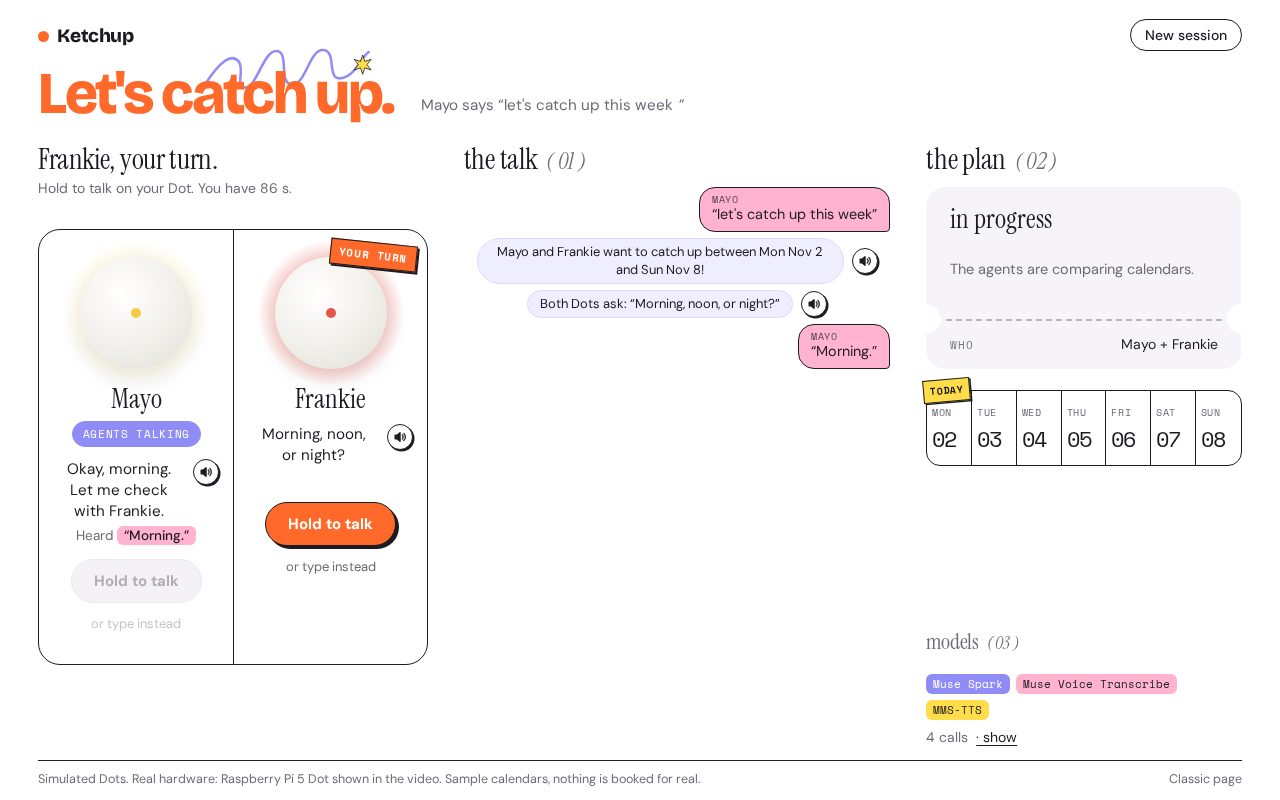
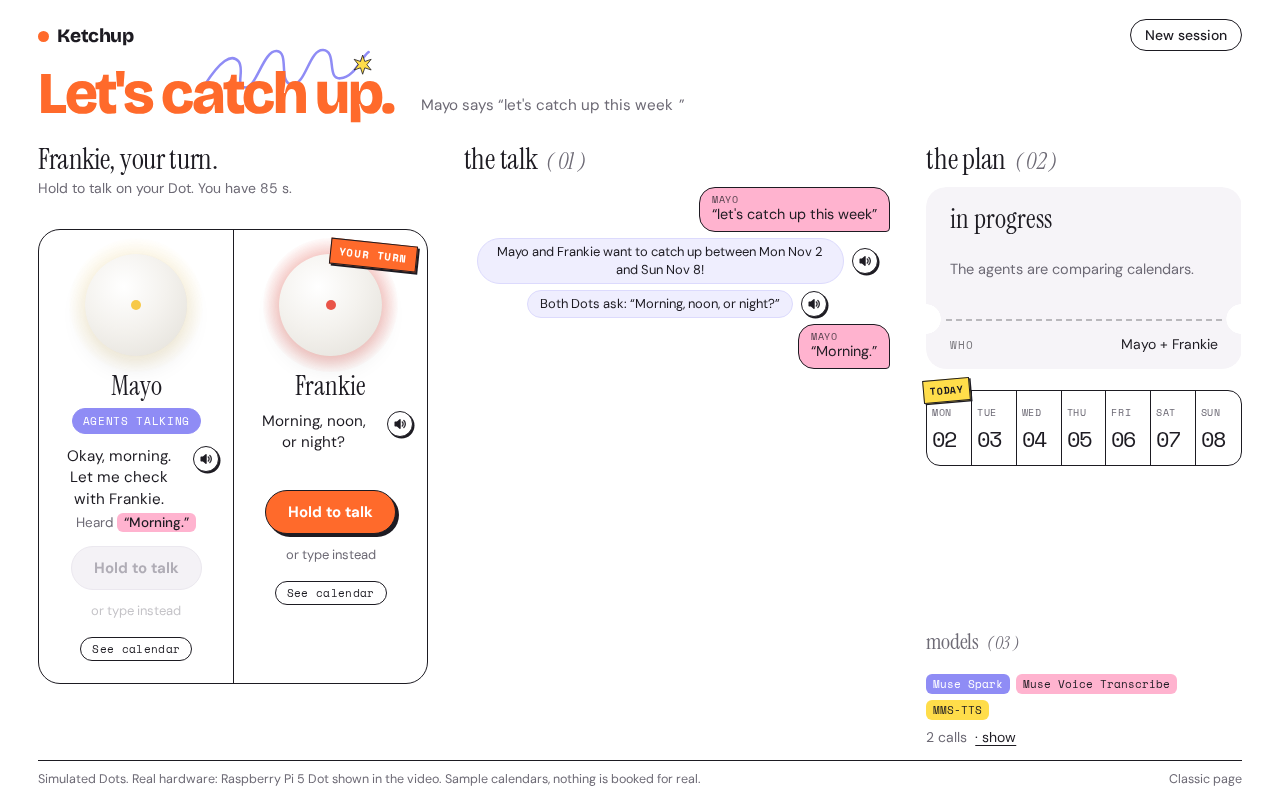
Simulator: See calendar view for each Dot

diff --git a/web/sim.html b/web/sim.html
@@ -194,9 +194,69 @@ footer .r{display:flex;gap:18px}
 footer .link{font-size:12.5px;padding:0}
 
 /* laptop and desktop: one screen, three columns, nothing scrolls */
+/* each person's mock calendar, the same data the agents read */
+.calbtn{margin-top:8px;border:1.5px solid var(--ink);background:#fff;border-radius:999px;padding:3px 11px;font-family:var(--mono);font-size:11px;letter-spacing:.03em;cursor:pointer;color:var(--ink)}
+.calbtn:hover{background:var(--hair)}
+.calov{display:none}
+.calov.open{display:block}
+.calcard{background:#fff;display:flex;flex-direction:column}
+.calhead{display:flex;align-items:center;gap:14px;flex-wrap:wrap}
+.calhead h2{margin:0}
+.caltabs{display:flex;gap:6px;margin-left:auto}
+.caltabs button{border:1.5px solid var(--ink);background:#fff;border-radius:999px;padding:4px 12px;font-size:13px;font-weight:700;cursor:pointer;color:var(--ink)}
+.caltabs button.on{background:var(--ink);color:#fff}
+.calx{border:0;background:none;font-size:26px;line-height:1;cursor:pointer;color:var(--ink);padding:0 2px}
+.calx:focus{outline:none}.calx:focus-visible{outline:2px solid var(--peri);outline-offset:2px;border-radius:6px}
+.calhint{color:var(--soft);font-size:13px;margin:6px 0 10px}
+.callegend{display:flex;gap:14px;flex-wrap:wrap;font-size:12px;color:var(--soft);margin-top:10px}
+.callegend i{display:inline-block;width:12px;height:12px;border-radius:3px;vertical-align:-2px;margin-right:5px;border:1px solid var(--line)}
+.ev{border-radius:6px;font-size:10.5px;line-height:1.2;padding:2px 5px;overflow:hidden;color:var(--ink)}
+.ev b{font-weight:700;display:block;white-space:nowrap;overflow:hidden;text-overflow:ellipsis}
+.ev span{font-family:var(--mono);font-size:9.5px;white-space:nowrap}
+.ev.mayo,.callegend .mayo{background:#e9e8fd;border:1px solid #c9c7f8}
+.ev.frankie,.callegend .frankie{background:#ffe6ef;border:1px solid #f6bfd3}
+.ev.k,.callegend .k{background:var(--yellow);border:1.5px solid var(--ink);z-index:2}
+.ev.k.ok,.callegend .ok{background:var(--green)}
+/* desktop: a week grid in a centred card, sized to the window */
+.cg{flex:1;min-height:0;display:grid;grid-template-columns:40px repeat(7,minmax(0,1fr));grid-template-rows:auto minmax(0,1fr);column-gap:4px}
+.cg .dh{text-align:center;font-size:11px;font-family:var(--mono);text-transform:uppercase;color:var(--soft);padding-bottom:4px;line-height:1.25}
+.cg .dh b{display:block;font-family:var(--display);font-size:20px;color:var(--ink);letter-spacing:-.02em}
+.cg .dh small{display:block;font-size:9px;height:11px}
+.cg .hrs{position:relative}
+.cg .hrs span{position:absolute;right:4px;transform:translateY(-50%);font-family:var(--mono);font-size:9.5px;color:var(--faint)}
+.cg .day{position:relative;border:1px solid var(--hair);border-radius:8px;background-image:linear-gradient(var(--hair) 1px,transparent 1px);background-size:100% calc(100% / var(--nh))}
+.cg .day.out{opacity:.38}
+.cg .day .past{position:absolute;left:0;right:0;top:0;background:repeating-linear-gradient(135deg,#f4f3f7 0 6px,#fff 6px 12px);border-radius:8px 8px 0 0}
+.cg .ev{position:absolute;left:3px;right:3px}
+.cg .ev.k{left:1px;right:1px;padding:1px 5px}
+.cg .ev.k b{font-size:10px;line-height:1.25}
+.cg .buf{position:absolute;left:0;right:0;border:1.5px dashed var(--faint);border-radius:6px;z-index:1}
+.cg.both .ev.mayo{right:calc(50% + 1px)}
+.cg.both .ev.frankie{left:calc(50% + 1px)}
+.cg .lanes{display:flex;font-size:8.5px;font-family:var(--mono);color:var(--faint);justify-content:space-around}
+/* phone: a day-by-day list, in the page (no inner scroll box) */
+.agenda h3{font-family:var(--serif);font-weight:400;font-size:22px;margin:16px 0 6px}
+.agenda h3 small{font-size:12px;color:var(--soft);font-family:var(--mono);margin-left:6px}
+.agenda .ev{display:flex;gap:8px;align-items:baseline;margin:4px 0;padding:6px 10px;font-size:13px}
+.agenda .ev b{display:inline;white-space:normal}
+.agenda .ev span{font-size:11px;min-width:118px}
+.agenda .none{color:var(--faint);font-size:13px}
+@media (min-width:900px){
+  .calov.open{position:fixed;inset:0;z-index:50;background:rgba(29,27,34,.32);display:grid;place-items:center}
+  .calcard{width:min(1180px,calc(100vw - 64px));height:calc(100dvh - 56px);max-height:820px;border:1.5px solid var(--ink);border-radius:22px;box-shadow:6px 6px 0 var(--ink);padding:18px 24px 16px}
+  .calhead h2{font-size:clamp(24px,3.6vh,34px)}
+}
+@media (max-width:899px){
+  body.calopen .wrap{display:none}
+  .calcard{padding:18px}
+  .calhead h2{font-size:28px}
+  .caltabs{margin-left:0;order:3;width:100%}
+  .calx{margin-left:auto}
+}
+
 @media (min-width:900px){
   html,body{height:100%}
-  :root{--peb:clamp(84px,14vh,150px);--sidepad:clamp(18px,3.4vh,40px);--tk:clamp(120px,16.5vh,220px)}
+  :root{--peb:clamp(84px,12.8vh,150px);--sidepad:clamp(16px,3vh,40px);--tk:clamp(120px,16.5vh,220px)}
   .wrap{max-width:1640px;height:100vh;height:100dvh;display:flex;flex-direction:column;padding:clamp(14px,2.4vh,28px) clamp(28px,3vw,56px) clamp(10px,1.6vh,20px)}
   .hero{font-size:clamp(40px,7.4vh,86px);margin-top:clamp(10px,2vh,26px);display:flex;align-items:flex-end;gap:28px}
   .plan{margin:0 0 .14em;font-size:clamp(14px,1.9vh,17px)}
@@ -278,10 +338,12 @@ footer .link{font-size:12.5px;padding:0}
         <div class="side" id="side-mayo">
           <div class="pebble" id="peb-mayo"><span class="dot"></span></div>
           <div id="co-mayo"></div>
+          <button class="calbtn" data-cal="mayo">See calendar</button>
         </div>
         <div class="side" id="side-frankie">
           <div class="pebble" id="peb-frankie"><span class="dot"></span></div>
           <div id="co-frankie"></div>
+          <button class="calbtn" data-cal="frankie">See calendar</button>
         </div>
       </section>
     </div>
@@ -304,6 +366,14 @@ footer .link{font-size:12.5px;padding:0}
     <span>Simulated Dots. Real hardware: Raspberry Pi 5 Dot shown in the video. Sample calendars, nothing is booked for real.</span>
     <span class="r"><button class="link" id="skip" style="display:none">Skip to 10 PM</button><a class="link" href="/classic">Classic page</a></span>
   </footer>
+</div>
+<div class="calov" id="calov" role="dialog" aria-modal="true" aria-labelledby="caltitle">
+  <div class="calcard">
+    <div class="calhead"><h2 id="caltitle">calendar</h2><div class="caltabs"><button data-show="mayo">Mayo</button><button data-show="frankie">Frankie</button><button data-show="both">Both</button></div><button class="calx" id="calx" aria-label="Close">×</button></div>
+    <div class="calhint" id="calhint"></div>
+    <div id="calbody"></div>
+    <div class="callegend"><span><i class="mayo"></i>Mayo's events</span><span><i class="frankie"></i>Frankie's events</span><span><i class="k"></i>Ketchup, pencilled in</span><span><i class="k ok"></i>Ketchup, booked</span><span><i style="border:1.5px dashed var(--faint);background:#fff"></i>30 min kept clear</span><span>Sample calendars, the same ones the agents read.</span></div>
+  </div>
 </div>
 <script>
 const $ = s => document.querySelector(s);
@@ -551,7 +621,8 @@ addEventListener("resize", () => { fitPhrase(); fitNotes(); renderCalls(); });
 async function loadWeek() {
   const r = await api("/sim/api/calendar" + (sid ? "?session=" + sid : "")).catch(() => null);
   if (!r || !r.ok) return;
-  const W = r.body, z = {timeZone: "America/New_York"};
+  const W = weekData = r.body, z = {timeZone: "America/New_York"};
+  renderCal();
   const dayOf = d => new Date(d).toLocaleDateString("en-CA", z);
   const hold = (W.people.mayo.ketchup || [])[0];
   $("#week").innerHTML = W.days.map((day, i) => {
@@ -562,6 +633,80 @@ async function loadWeek() {
     return `<div class="${hit ? "hit" + (ok ? " ok" : "") : ""}">${i === 0 ? '<i class="sticky today">Today</i>' : ""}<span>${d.toLocaleDateString("en-US", {weekday: "short"})}</span><b>${String(d.getDate()).padStart(2, "0")}</b>${hit ? `<em>${tm}</em>` : ""}${ok ? '<i class="sticky done">Booked!</i>' : ""}</div>`;
   }).join("");
 }
+
+
+// ---- each person's calendar, from the same mock data the agents read ----
+let calShow = null, calFrom = null;
+const ET = new Intl.DateTimeFormat("en-CA", {timeZone: "America/New_York", year: "numeric", month: "2-digit", day: "2-digit", hour: "2-digit", minute: "2-digit", hourCycle: "h23"});
+function etOf(iso) {
+  const p = Object.fromEntries(ET.formatToParts(new Date(iso)).map(x => [x.type, x.value]));
+  return {day: `${p.year}-${p.month}-${p.day}`, h: +p.hour + +p.minute / 60};
+}
+const hm = h => { const H = Math.floor(h), M = Math.round((h - H) * 60); return `${H % 12 || 12}${M ? ":" + String(M).padStart(2, "0") : ""}`; };
+const ampm = h => (h < 12 || h >= 24 ? "AM" : "PM");
+const span = (a, b) => `${hm(a)}${ampm(a) === ampm(b) ? "" : " " + ampm(a)}–${hm(b)} ${ampm(b)}`;
+function calEvents(W, who) {
+  const out = [];
+  for (const k of who) for (const e of W.people[k].busy) {
+    const a = etOf(e.start), b = etOf(e.end);
+    out.push({k, day: a.day, a: a.h, b: b.h, title: e.title});
+  }
+  const hold = (W.people.mayo.ketchup || [])[0];
+  if (hold) {
+    const a = etOf(hold.start), mins = hold.minutes || 30, ok = hold.status === "confirmed";
+    out.push({k: "k" + (ok ? " ok" : ""), day: a.day, a: a.h, b: a.h + mins / 60, title: (ok ? "Booked: " : "Pencilled in: ") + (hold.title || "Ketchup"), short: ok ? "Ketchup ✓" : "Ketchup?"});
+  }
+  return out.sort((x, y) => x.a - y.a);
+}
+function renderCal() {
+  if (!calShow || !weekData) return;
+  const W = weekData, who = calShow === "both" ? KEYS : [calShow];
+  $("#caltitle").innerHTML = calShow === "both" ? "both calendars" : `${esc(W.people[calShow].name)}'s calendar`;
+  document.querySelectorAll("[data-show]").forEach(b => b.classList.toggle("on", b.dataset.show === calShow));
+  $("#calhint").textContent = `Each agent reads only its own person's calendar. It shares free times with the other agent, never event names. Ketchup keeps ${W.buffer_min} min clear around every event.`;
+  const evs = calEvents(W, who), win = W.window, inWin = d => !win || (d >= win[0] && d <= win[1]);
+  const now = etOf(new Date().toISOString()), z = {timeZone: "UTC"};
+  const label = d => new Date(d + "T12:00:00Z");
+  if (!wide()) {
+    $("#calbody").innerHTML = `<div class="agenda">${W.days.map(d => {
+      const list = evs.filter(e => e.day === d), dt = label(d);
+      return `<h3>${dt.toLocaleDateString("en-US", {...z, weekday: "long"})} ${dt.getUTCDate()}${inWin(d) ? "" : "<small>outside the plan</small>"}</h3>` +
+        (list.map(e => `<div class="ev ${e.k}"><span>${span(e.a, e.b)}</span><b>${calShow === "both" && KEYS.includes(e.k) ? esc(W.people[e.k].name) + ": " : ""}${esc(e.title)}</b></div>`).join("") || '<div class="none">Nothing on.</div>');
+    }).join("")}</div>`;
+    return;
+  }
+  let H0 = Math.min(7, ...evs.map(e => Math.floor(e.a))), H1 = Math.max(22, ...evs.map(e => Math.ceil(e.b)));
+  const n = H1 - H0, pct = h => ((h - H0) / n * 100).toFixed(3) + "%";
+  const hrs = Array.from({length: n / 2 + 1}, (_, i) => H0 + i * 2).map(h => `<span style="top:${pct(h)}">${hm(h)} ${ampm(h)}</span>`).join("");
+  $("#calbody").style.cssText = "flex:1;min-height:0;display:flex;flex-direction:column";
+  $("#calbody").innerHTML = `<div class="cg ${calShow === "both" ? "both" : ""}" style="--nh:${n}"><div></div>${W.days.map(d => {
+    const dt = label(d);
+    return `<div class="dh">${dt.toLocaleDateString("en-US", {...z, weekday: "short"})}<b>${String(dt.getUTCDate()).padStart(2, "0")}</b><small>${inWin(d) ? (calShow === "both" ? "mayo · frankie" : "") : "outside plan"}</small></div>`;
+  }).join("")}<div class="hrs">${hrs}</div>${W.days.map(d => {
+    const past = d === now.day && now.h > H0 ? `<div class="past" style="height:${pct(Math.min(now.h, H1))}"></div>` : "";
+    const g = W.buffer_min / 60;
+    return `<div class="day${inWin(d) ? "" : " out"}">${past}${evs.filter(e => e.day === d).map(e => e.short
+      ? `<div class="buf" style="top:${pct(e.a - g)};height:calc(${pct(e.b + g)} - ${pct(e.a - g)})" title="${W.buffer_min} min kept clear"></div><div class="ev ${e.k}" style="top:${pct(e.a)};height:calc(${pct(e.b)} - ${pct(e.a)})" title="${esc(e.title)} ${span(e.a, e.b)}"><b>${e.short} ${span(e.a, e.b)}</b></div>`
+      : `<div class="ev ${e.k}" style="top:${pct(e.a)};height:calc(${pct(e.b)} - ${pct(e.a)})" title="${esc(e.title)} ${span(e.a, e.b)}"><b>${esc(e.title)}</b><span>${span(e.a, e.b)}</span></div>`).join("")}</div>`;
+  }).join("")}</div>`;
+}
+function openCal(k, from) {
+  calShow = k; calFrom = from || calFrom; $("#calov").classList.add("open"); document.body.classList.add("calopen");
+  if (!wide()) scrollTo(0, 0);
+  renderCal(); loadWeek();
+  $("#calx").focus({preventScroll: true});
+}
+function closeCal() {
+  if (!calShow) return;
+  calShow = null; $("#calov").classList.remove("open"); document.body.classList.remove("calopen");
+  if (calFrom) calFrom.focus({preventScroll: true}), wide() || calFrom.scrollIntoView({block: "center"});
+}
+document.querySelectorAll("[data-cal]").forEach(b => b.onclick = e => { e.stopPropagation(); openCal(b.dataset.cal, b); });
+document.querySelectorAll("[data-show]").forEach(b => b.onclick = () => { calShow = b.dataset.show; renderCal(); });
+$("#calx").onclick = closeCal;
+$("#calov").onclick = e => { if (e.target.id === "calov") closeCal(); };
+addEventListener("keydown", e => { if (e.key === "Escape") closeCal(); });
+addEventListener("resize", renderCal);
 
 // ---- answers: typed ----
 function bindTalk() {

diff --git a/tests/test_sim_calendar.py b/tests/test_sim_calendar.py
@@ -1,0 +1,62 @@
+"""The simulator's calendar endpoint (no network): python tests/test_sim_calendar.py
+
+GET /sim/api/calendar shows each person the same seeded events the agents read
+(mock freebusy), plus this session's Ketchup hold, and the hold sits on a free
+gap at least buffer_min away from every event on both calendars.
+"""
+import os
+import sys
+from datetime import datetime, timedelta
+from pathlib import Path
+
+os.environ["KETCHUP_CALENDAR"] = "mock"
+os.environ["KETCHUP_TTS"] = "off"
+ROOT = Path(__file__).parent.parent
+sys.path.insert(0, str(ROOT / "web"))
+sys.path.insert(0, str(ROOT / "brain"))
+import sim  # noqa: E402
+from calendar_slots import free_slots  # noqa: E402
+from gcal import PEOPLE, calendar  # noqa: E402
+from parse_plan import TZ  # noqa: E402
+
+W = sim.week(None)
+assert len(W["days"]) == 7 and set(W["people"]) == set(PEOPLE), W.keys()
+assert W["buffer_min"] == 30 and "window" not in W
+now = datetime.now(TZ)
+start = datetime.combine(now.date(), datetime.min.time(), tzinfo=TZ)
+fb = calendar().freebusy().query(body={"timeMin": start.isoformat(), "timeMax": (start + timedelta(days=7)).isoformat(),
+                                       "items": [{"id": p["calendar_id"]} for p in PEOPLE.values()]}).execute()
+for k, p in PEOPLE.items():
+    shown = [(b["start"], b["end"]) for b in W["people"][k]["busy"]]
+    agents = [(b["start"], b["end"]) for b in fb["calendars"][p["calendar_id"]]["busy"]]
+    assert shown == agents and shown, (k, len(shown), len(agents))
+    assert all(b["title"] for b in W["people"][k]["busy"]) and W["people"][k]["ketchup"] == []
+
+# a session with a hold on the first shared free slot: shown on both, clear of every event
+busy = {p["calendar_id"]: [(datetime.fromisoformat(b["start"]), datetime.fromisoformat(b["end"]))
+                           for b in fb["calendars"][p["calendar_id"]]["busy"]] for p in PEOPLE.values()}
+slot = free_slots(busy, now.date(), (now + timedelta(days=6)).date(), 30, now)[0]
+t = slot[0] if isinstance(slot, tuple) else slot
+
+
+class FakeSession:
+    start_day, end_day = now.date(), (now + timedelta(days=6)).date()
+    hold = {"start": t.isoformat(), "minutes": 30, "title": "Ketchup", "status": "confirmed"}
+
+
+class FakeSim:
+    s = FakeSession()
+
+
+W = sim.week(FakeSim())
+assert W["window"] == [now.date().isoformat(), (now + timedelta(days=6)).date().isoformat()]
+gap = timedelta(minutes=W["buffer_min"])
+for k in PEOPLE:
+    (h,) = W["people"][k]["ketchup"]
+    a = datetime.fromisoformat(h["start"]); b = a + timedelta(minutes=h["minutes"])
+    assert h["status"] == "confirmed"
+    for e in W["people"][k]["busy"]:
+        s, f = datetime.fromisoformat(e["start"]), datetime.fromisoformat(e["end"])
+        assert not (s - gap < b and a < f + gap), (k, e, h)
+print(f"OK sim calendar: {sum(len(W['people'][k]['busy']) for k in PEOPLE)} events shown = what the agents read; "
+      f"hold {t:%a %-I:%M %p} clear on both")

diff --git a/web/sim.py b/web/sim.py
@@ -48,6 +48,7 @@ import mock_calendar  # noqa: E402
 import timing  # noqa: E402
 from gcal import PEOPLE, calendar  # noqa: E402
 from parse_plan import TZ  # noqa: E402
+SETTINGS = json.loads((ROOT / "config/settings.json").read_text())
 
 import pi_pebble as voice  # noqa: E402  (mms_text, load_mms, mms_pcm, transcribe: shared with the Pi)
 
@@ -248,6 +249,11 @@ def week(sim):
             mine.append({"start": hold["start"], "minutes": hold.get("minutes"), "title": hold.get("title"),
                          "status": hold.get("status", "tentative")})
         out["people"][key] = {"name": p["name"], "busy": busy, "ketchup": mine}
+    s = sim and sim.s
+    if s and getattr(s, "start_day", None):  # the days the agents searched, once the plan is read
+        out["window"] = [s.start_day.isoformat(), s.end_day.isoformat()]
+    out["buffer_min"] = SETTINGS["buffer_min"]
+    out["day_hours"] = SETTINGS["day"]
     return out
 
 
